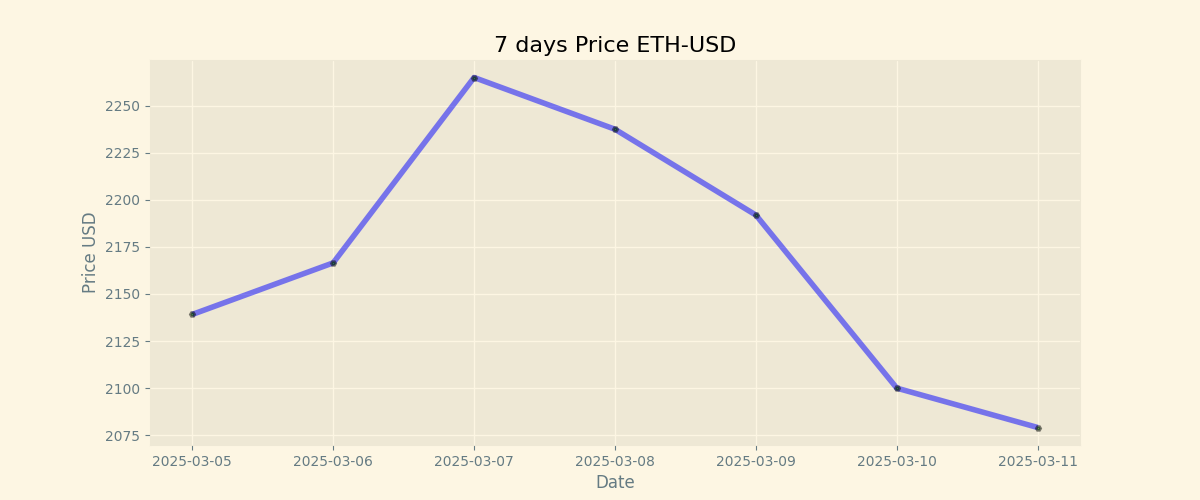
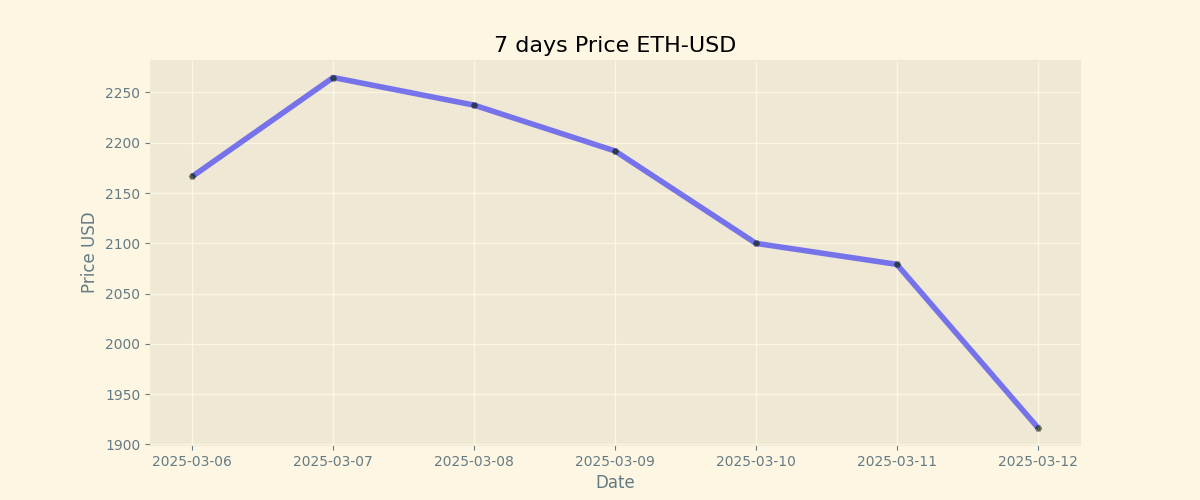
Duty Updates 2025-03-12

diff --git a/README.md b/README.md
@@ -9,8 +9,8 @@
 
 | Currency | Price           |
 | -------- | --------------- |
-| **BTC**  | **$ 81999.0** |
-| **ETH**  | **$ 2079.1** |
+| **BTC**  | **$ 82001.0** |
+| **ETH**  | **$ 1916.87** |
 
 ## BTC chart
 
